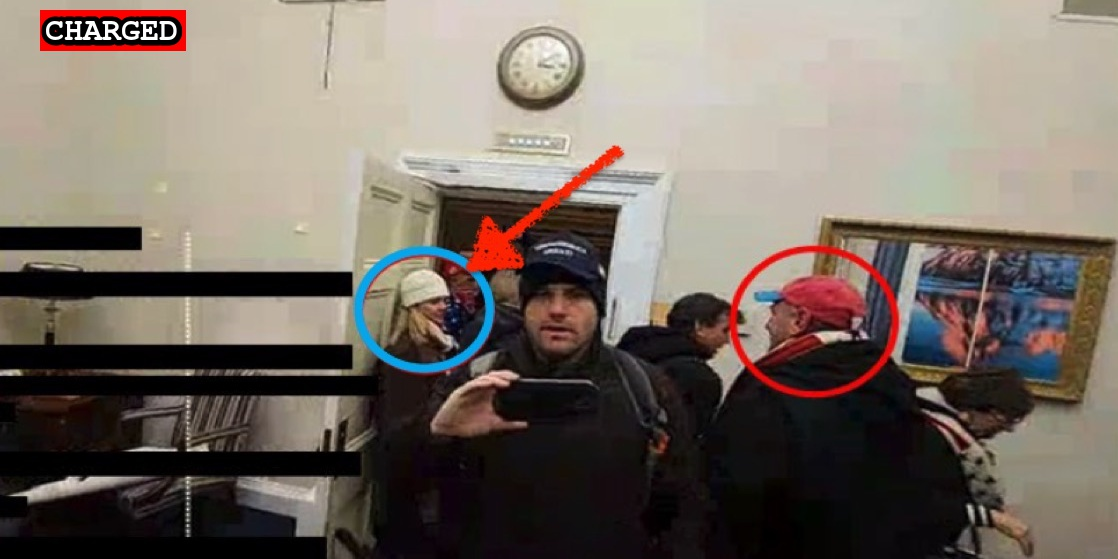
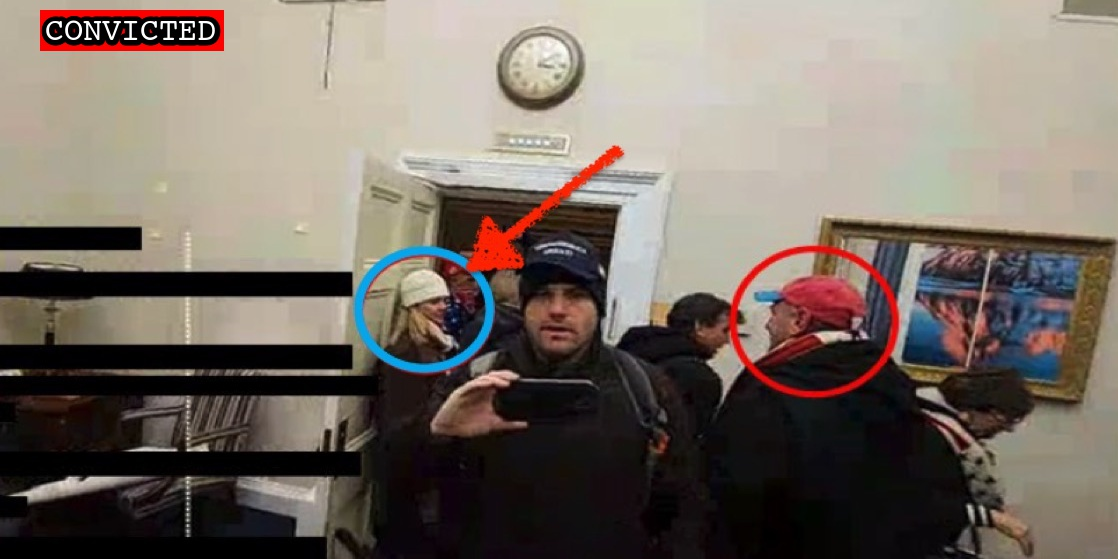
Guilty pleas

Changed region(s): [[0.0304, 0.0, 0.2129, 0.0912]]

diff --git a/docs/_suspects/dawn-frankowski.md b/docs/_suspects/dawn-frankowski.md
@@ -4,15 +4,18 @@ lastName: Frankowski
 hashtag: DawnFrankowski
 aka: Dawn Maga
 residence: Illinois
-status: Charged
+status: Convicted
 date: 2021-09-13
 charged: 2021-09-13
 indicted:
-convicted:
+convicted: 2022-08-31
+acquitted:
 sentenced:
 dismissed:
 deceased:
 plea_hearing: 2022-08-31
+trial_date:
+trial_type:
 sentencing:
 age: 53
 occupation:
@@ -31,12 +34,17 @@ description: Click for latest case details. Suspects innocent until proven guilt
 author: seditiontrack
 layout: suspect
 published: true
-caseNumber: 1:21-mj-599
+caseNumber: 1:21-cr-592
 videos:
 charges:
+- code: 40 USC § 5104(e)(2)(G)
+  title: Parading, demonstrating or picketing in a Capitol building
+  url: https://www.law.cornell.edu/uscode/text/40/5104
+  felony: false
 sentence:
 ---
-
 - [News Report](https://chicago.suntimes.com/crime/2021/9/21/22686870/like-going-shopping-mall-two-arrested-suburbs-alleged-role-us-capitol-breach)
 - [Statement of Facts](https://www.justice.gov/usao-dc/case-multi-defendant/file/1434616/download)
-- [Information](https://extremism.gwu.edu/sites/g/files/zaxdzs2191/f/David%20Wiersma%20and%20Dawn%20Frankowski%20Information.pdf)
+- [Information](https://www.justice.gov/usao-dc/case-multi-defendant/file/1530061/download)
+- [Plea Agreement](https://www.justice.gov/usao-dc/case-multi-defendant/file/1530066/download)
+- [Statement of Offense](https://www.justice.gov/usao-dc/case-multi-defendant/file/1530071/download)

diff --git a/docs/_suspects/nicholas-lattanzi.md b/docs/_suspects/nicholas-lattanzi.md
@@ -4,15 +4,18 @@ lastName: Lattanzi
 hashtag:
 aka:
 residence: Delaware
-status: Charged
+status: Convicted
 date: 2022-01-10
 charged: 2022-01-10
 indicted:
-convicted:
+convicted: 2022-08-31
+acquitted:
 sentenced:
 dismissed:
 deceased:
-plea_hearing: 2022-08-30
+plea_hearing: 2022-08-31
+trial_date:
+trial_type:
 sentencing:
 age:
 occupation:
@@ -31,11 +34,17 @@ description: Click for latest case details. Suspects innocent until proven guilt
 author: seditiontrack
 layout: suspect
 published: true
-caseNumber: 1:22-mj-000
+caseNumber: 1:22-cr-28
 videos:
 charges:
+- code: 40 USC § 5104(e)(2)(G)
+  title: Parading, demonstrating or picketing in a Capitol building
+  url: https://www.law.cornell.edu/uscode/text/40/5104
+  felony: false
 sentence:
 ---
-
 - [News Report](https://www.rawstory.com/capitol-riot-arrests-2656379230/)
 - [Statement of Facts](https://www.justice.gov/usao-dc/case-multi-defendant/file/1481341/download)
+- [Information](https://www.justice.gov/usao-dc/case-multi-defendant/file/1530011/download)
+- [Plea Agreement](https://www.justice.gov/usao-dc/case-multi-defendant/file/1530001/download)
+- [Statement of Offense](https://www.justice.gov/usao-dc/case-multi-defendant/file/1530006/download)

diff --git a/docs/_suspects/julian-khater.md b/docs/_suspects/julian-khater.md
@@ -12,7 +12,7 @@ convicted:
 sentenced:
 dismissed:
 deceased:
-plea_hearing:
+plea_hearing: 2022-09-01
 trial_date: 2022-10-05
 sentencing:
 age: 32
